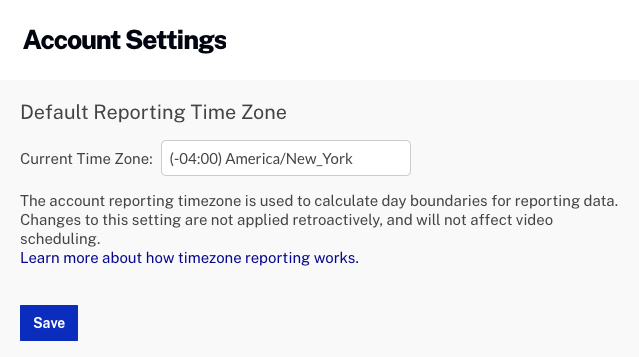
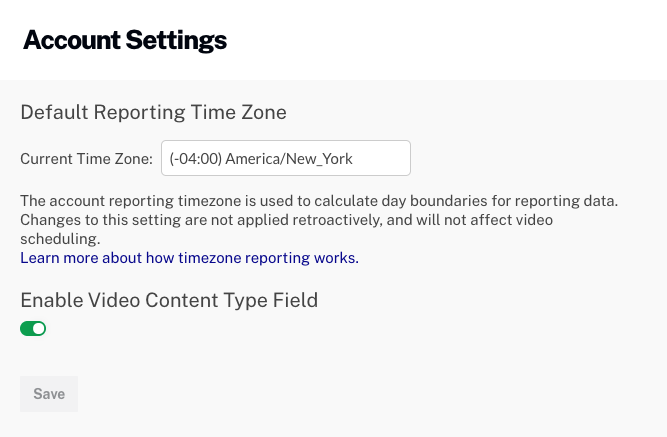
updates

diff --git a/_site/admin/managing-account-settings.html b/_site/admin/managing-account-settings.html
@@ -1214,6 +1214,7 @@ function doGTranslate(lang_pair) {if(lang_pair.value)lang_pair=lang_pair.value;i
   <section class="bcls-section">
     <h2 id="account_settings">Account Settings</h2>
     <p>The Analytics Settings provide access to account-related settings. The <strong>Default Reporting Time Zone</strong> is used to calculate day boundaries for reporting data. Changing the reporting time zone setting only affects data going forward, and changes are not applied retroactively. If you change this setting, you may see a flat spot or a spike in your analytics data when looking at day boundaries where the change was applied. Updates to this setting may not take effect immediately and analytics data may continue to refer to the old setting until the system processes the changes.</p>
+    <p>If <strong>Enable Video Content Type Field</strong> is enabled, the Video Content Type field will be displayed on the Media module homepage. It also allows a Video Content Type to be assigned to videos on the video properties page. For more information on managing users, see <a href="/campaign/general/overview-video-content-types.html">Overview of Video Content Types</a>.</p>
     <figure class="bcls-figure"><img class="bcls-image--no-border" alt="" src="/assets/images/admin/node14055-account-settings.png" /></figure>
   </section>
   <section class="bcls-section">

diff --git a/admin/managing-account-settings.html b/admin/managing-account-settings.html
@@ -40,6 +40,7 @@ description: This topic provides an overview of the Studio account settings opti
   <section class="bcls-section">
     <h2 id="account_settings">Account Settings</h2>
     <p>The Analytics Settings provide access to account-related settings. The <strong>Default Reporting Time Zone</strong> is used to calculate day boundaries for reporting data. Changing the reporting time zone setting only affects data going forward, and changes are not applied retroactively. If you change this setting, you may see a flat spot or a spike in your analytics data when looking at day boundaries where the change was applied. Updates to this setting may not take effect immediately and analytics data may continue to refer to the old setting until the system processes the changes.</p>
+    <p>If <strong>Enable Video Content Type Field</strong> is enabled, the Video Content Type field will be displayed on the Media module homepage. It also allows a Video Content Type to be assigned to videos on the video properties page. For more information on managing users, see <a href="/campaign/general/overview-video-content-types.html">Overview of Video Content Types</a>.</p>
     <figure class="bcls-figure"><img class="bcls-image--no-border" alt="" src="/assets/images/admin/node14055-account-settings.png" /></figure>
   </section>
   <section class="bcls-section">
